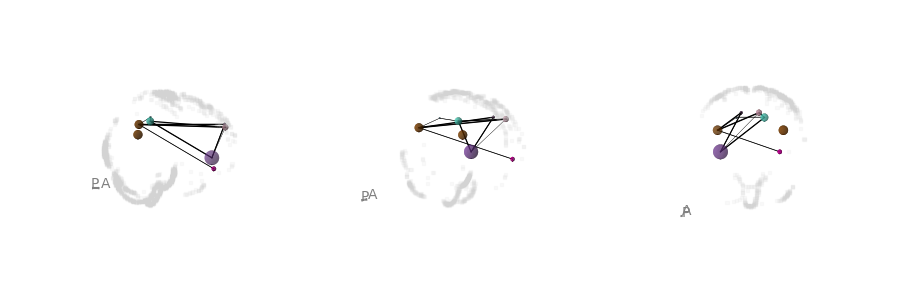
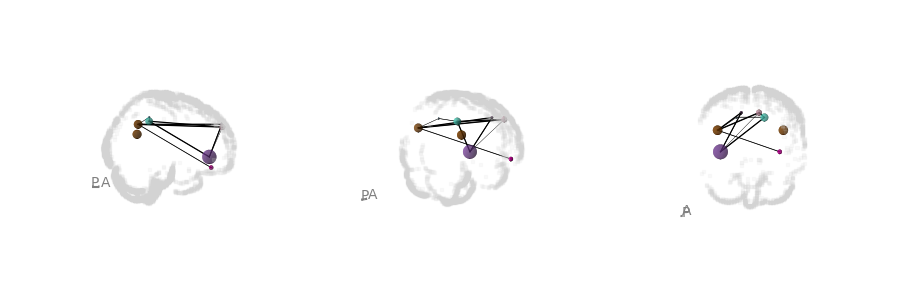
updating examples

diff --git a/netonbrain/plotting/plot_templates.py b/netonbrain/plotting/plot_templates.py
@@ -57,8 +57,23 @@ def _plot_template_style_surface(ax, data, alpha, templatecolor, surface_resolut
 def _plot_template(ax, style='filled', template='MNI152NLin2009cAsym', templatecolor='lightgray', alpha=0.2, voxsize=2, azim=0, elev=0, surface_resolution=2, edgethreshold=0.8):
     if isinstance(template, str):
         if not os.path.exists(template):
-            template = tf.get(template=template, resolution=1,
-                              desc='brain', suffix='T1w', extension='.nii.gz')
+            tf_kwargs = {}
+            # Add kwargs to specify specific templates
+            if 'MNI152' in template:
+                tf_kwargs = {
+                    'suffix': 'T1w',
+                    'resolution': 1
+                }
+            if 'WHS' in template:
+                tf_kwargs = {
+                    'resolution': 1
+                }                
+            template = tf.get(template=template, desc='brain', 
+                              extension='.nii.gz', **tf_kwargs)
+            # If multiple templates still remain, take the first
+            # This may lead to suboptimal performence for some templates
+            if isinstance(template, list):
+                template = template[0] 
         img = nib.load(template)
     elif isinstance(template, (nib.Nifti1Image, nib.Nifti2Image)):
         img = template

diff --git a/netonbrain/plot.py b/netonbrain/plot.py
@@ -6,7 +6,7 @@ from .plotting import _plot_template, _plot_template_style_filled, _plot_templat
 
 
 def plot(nodes, fig=None, ax=None, view='L', frames=1, edges=None, template=None, templatestyle='filled', templatealpha=0.2,
-         templatevoxsize=2, templatecolor='lightgray', surface_resolution=2, templateedgethreshold=0.8, arrowaxis='auto', arrowlength=5,
+         templatevoxsize=2, templatecolor='lightgray', surface_resolution=2, templateedgethreshold=0.75, arrowaxis='auto', arrowlength=5,
          arroworigin=[5, 5, 5], edgecolor='k', edgewidth='auto', nodesize=50, nodecolor='salmon', nodespheres=True):
     # sourcery skip: merge-nested-ifs
     """

diff --git a/examples/example1.py b/examples/example1.py
@@ -36,7 +36,7 @@ edges = edgesdf
 
 # Plot single view
 nob.plot(template='MNI152NLin2009cAsym',
-         templatestyle='cloudy',
+         templatestyle='surface',
          view='R',
          nodes=nodes,
          nodesize='centrality',

diff --git a/README.md b/README.md
@@ -4,7 +4,7 @@ A package to create simple 3D network visualizations with a brain background.
 
 (Name is a work in progress)
 
-![](examples/figures/seq2.png)
+![](examples/figures/seq1.png)
 
 ## Installation
 
@@ -34,12 +34,12 @@ The T1w brain mask will then automatically downloaded (if not already present on
 
 ## Template Styles
 
-There are currently two background styles: "filled" and "glass".
+There are currently two background styles: "filled" and "cloudy".
 
 The filled style, plots the template's brain mask as voxels.
 
-The glass style, tries to identify the outline of the mask.
-The glass style is quicker, but the edge detection is run relative to the specified initial view of the plot.
+The cloudy style, tries to identify the outline of the mask.
+The cloudy style is quicker, but the edge detection is run relative to the specified initial view of the plot.
 
 For both templates, you can change the voxelsize of the template. Larger voxels means the plot will be generated quicker
 
@@ -96,30 +96,36 @@ edges += edges.transpose()
 ### Plot single view
 
 ```python
-nob.plot(template='MNI152NLin2009cAsym', templatestyle='glass',
-                    view='R', 
-                    nodes=nodes, nodesize='centrality',
-                    edges=edges)
+nob.plot(template='MNI152NLin2009cAsym',
+         templatestyle='surface',
+         view='R', 
+         nodes=nodes,
+         nodesize='centrality',
+         edges=edges)
 plt.show()
-```
 ![](./examples/figures/singleview.png)
+```
 
 ### Plot different styles
 
 ```python
-nob.plot(template='MNI152NLin2009cAsym', templatestyle='filled',
-                    view='R', 
-                    nodes=nodes, nodesize='centrality',
-                    edges=edges)
+nob.plot(template='MNI152NLin2009cAsym',
+         templatestyle='filled',
+         view='R', 
+         nodes=nodes,
+         nodesize='centrality',
+         edges=edges)
 plt.show()
 ```
 ![](./examples/figures/styles1.png)
 
 ```python
-nob.plot(template='MNI152NLin2009cAsym', templatestyle='glass',
-                    view='R', 
-                    nodes=nodes, nodesize='centrality',
-                    edges=edges)
+nob.plot(template='MNI152NLin2009cAsym',
+         templatestyle='cloudy',
+         view='R', 
+         nodes=nodes,
+         nodesize='centrality',
+         edges=edges)
 plt.show()
 ```
 ![](./examples/figures/styles2.png)
@@ -127,13 +133,16 @@ plt.show()
 ### Plot sequence
 
 ```python
-nob.plot(template='MNI152NLin2009cAsym', templatestyle='glass',
-                    view='RP', 
-                    nodes=nodes, nodesize='centrality',
-                    edges=edges, frames=3)
+nob.plot(template='MNI152NLin2009cAsym',
+         templatestyle='cloudy',
+         view='RP', 
+         nodes=nodes, 
+         nodesize='centrality',
+         edges=edges, 
+         frames=3)
 plt.show()
 ```
-![](./examples/figures/seq1.png)
+![](./examples/figures/seq2.png)
 
 ## Get involved? 
 
@@ -146,11 +155,8 @@ Please feel free to get in touch about what feature you want/would like to imple
 - Dynamicly choose which arrows are shown 
 - Direction of rotation RP+ or RP- should go different ways.
 - Add lists of directions ['AP+', 'DL-']
-- Surfaces.
-- More and improved template styles.
 - Colouring.
 - Edge properties.
 - Areas as nodes
 - Simple node selection
 - Scaling
-- Nodes spheres
